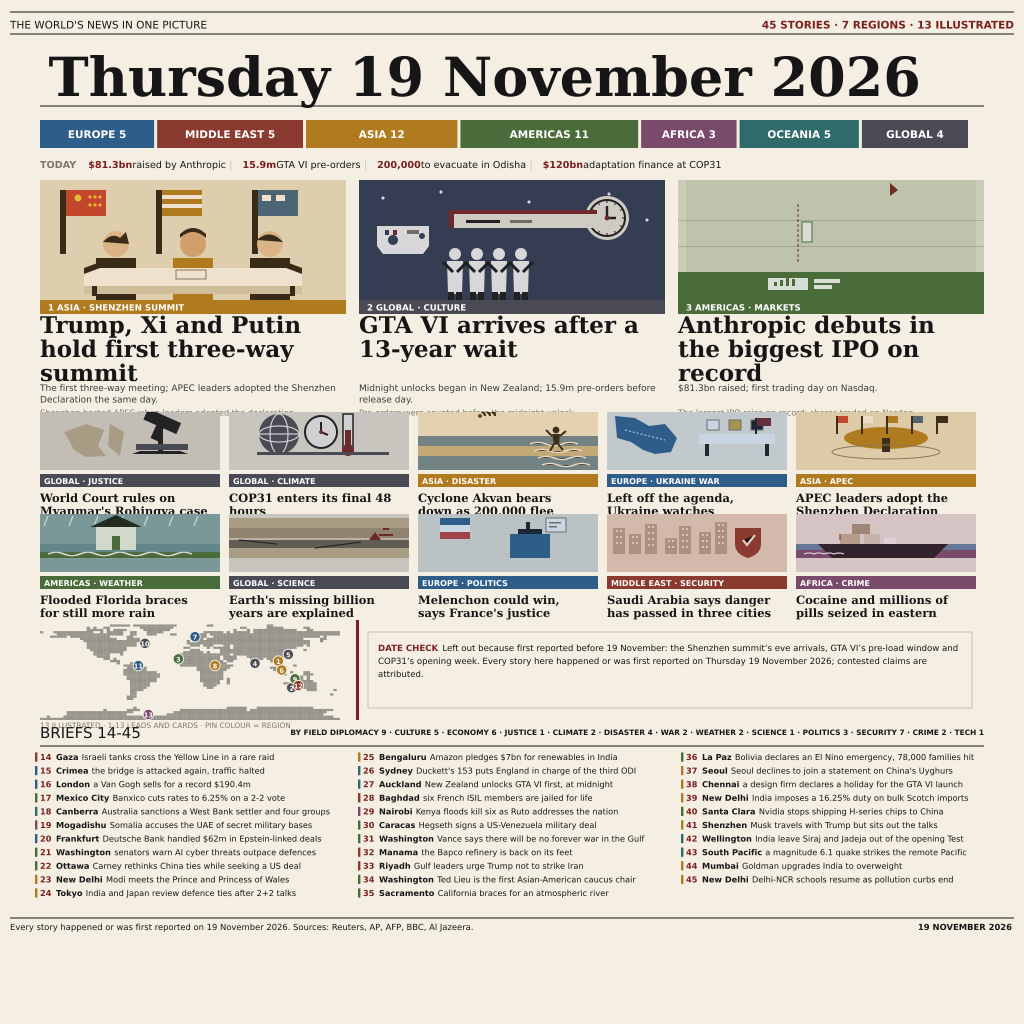
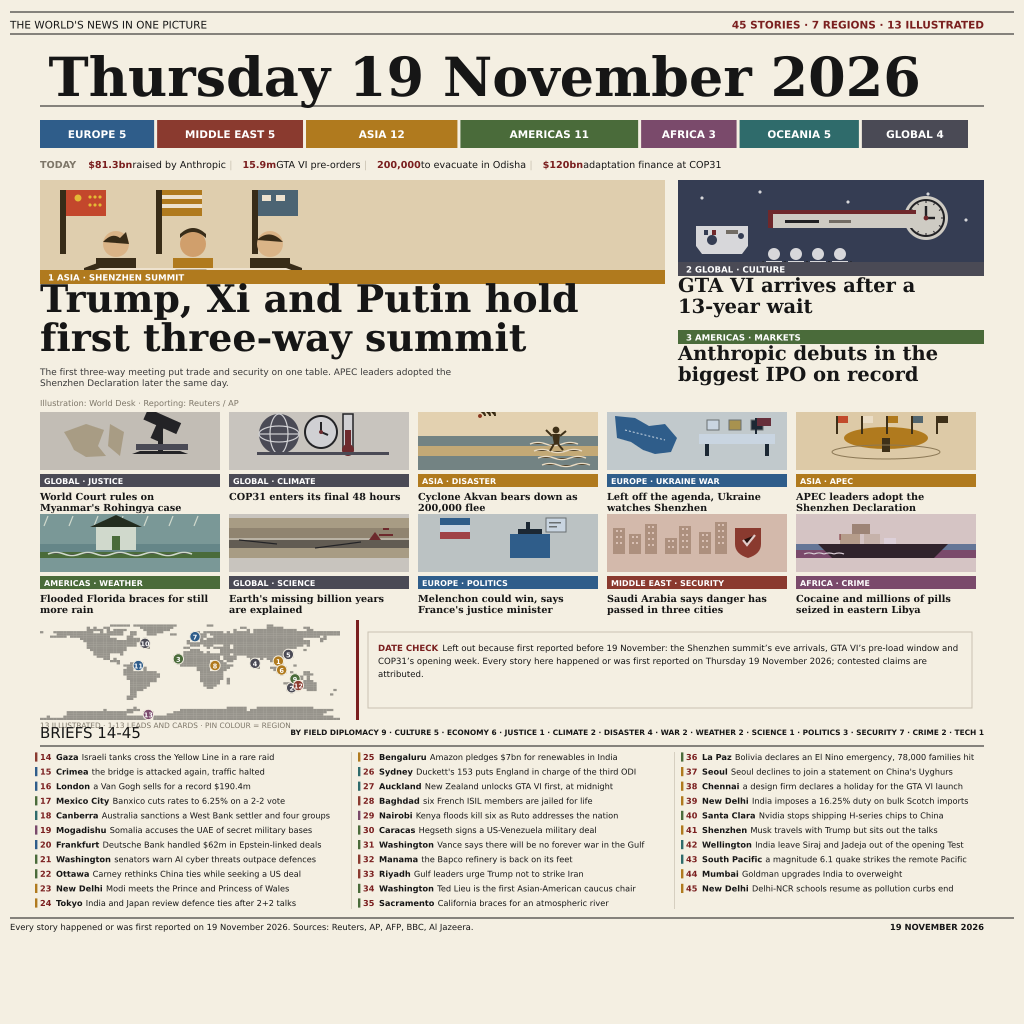
fix lead hierarchy and news layout clipping

diff --git a/gen.py b/gen.py
@@ -46,6 +46,9 @@ def tw(text, path, size):
 
 
 WORST = []  # (ratio, what)
+TEXT_BOXES = []  # (right edge, label)
+DRAWN_STRINGS = []
+MARGIN = 40
 
 
 def check(text, path, size, box, what, record=True):
@@ -86,6 +89,7 @@ def wrap(text, path, size, box, max_lines, what):
         if best:
             lines = lines[:max_lines - 2] + best[1]
     assert len(lines) <= max_lines, f"{what}: needs {len(lines)} lines > {max_lines}: {lines}"
+    assert " ".join(lines).split() == text.split(), f"{what}: text was cut: {lines!r} != {text!r}"
     for ln in lines:
         check(ln, path, size, box, what)
     return lines
@@ -127,10 +131,12 @@ class SVG:
         self.raw(f'<circle cx="{cx:.2f}" cy="{cy:.2f}" r="{r:.2f}" fill="{fill}" {extra}/>')
 
     def text(self, x, y, s, path, size, fill=INK, anchor="start", weight=None, ls=None, record=True, what="text"):
-        if record:
-            check(s, path, size, max(tw(s, path, size), 1e-6), f"{what}", record=False)
-            if anchor == "start":
-                assert x + tw(s, path, size) <= W - x + 0 or True
+        width = tw(s, path, size)
+        right = x + width if anchor == "start" else x if anchor == "end" else x + width / 2
+        assert right <= W - MARGIN + 1e-9, \
+            f"RIGHT EDGE {what!r}: {right:.2f} > {W - MARGIN} :: {s!r}"
+        TEXT_BOXES.append((right, what))
+        DRAWN_STRINGS.append(s)
         w = f' font-weight="{weight}"' if weight else ""
         l = f' letter-spacing="{ls}"' if ls is not None else ""
         a = f' text-anchor="{anchor}"' if anchor != "start" else ""
@@ -141,6 +147,10 @@ class SVG:
         if box:
             check(s, SERIF_B if weight else "/usr/share/fonts/truetype/dejavu/DejaVuSerif.ttf", size, box, what)
         fw = ' font-weight="bold"' if weight else ""
+        right = x + tw(s, SERIF_B if weight else "/usr/share/fonts/truetype/dejavu/DejaVuSerif.ttf", size)
+        assert right <= W - MARGIN + 1e-9, f"RIGHT EDGE {what!r}: {right:.2f} > {W - MARGIN} :: {s!r}"
+        TEXT_BOXES.append((right, what))
+        DRAWN_STRINGS.append(s)
         self.raw(f'<text x="{x:.2f}" y="{y:.2f}" font-family="DejaVu Serif" font-size="{size}" '
                  f'fill="{fill}"{fw}>{esc(s)}</text>')
 
@@ -152,7 +162,7 @@ class SVG:
 LEADS = [
     ("Asia", "DIPLOMACY", "SHENZHEN SUMMIT",
      "Trump, Xi and Putin hold first three-way summit",
-     "The first three-way meeting; APEC leaders adopted the Shenzhen Declaration the same day.", 0),
+     "The first three-way meeting put trade and security on one table. APEC leaders adopted the Shenzhen Declaration later the same day.", 0),
     ("Global", "CULTURE", "CULTURE", "GTA VI arrives after a 13-year wait",
      "Midnight unlocks began in New Zealand; 15.9m pre-orders before release day.", 1),
     ("Americas", "ECONOMY", "MARKETS", "Anthropic debuts in the biggest IPO on record",
@@ -237,7 +247,7 @@ DATE_CHECK = ("DATE CHECK  Left out because first reported before 19 November: t
               "reported on Thursday 19 November 2026; contested claims are attributed.").replace("'", "\u2019")
 
 LEAD_SOURCE = [
-    "Shenzhen hosted APEC when leaders adopted the declaration.",
+    "Illustration: World Desk · Reporting: Reuters / AP",
     "Pre-orders were counted before the midnight unlock.",
     "The largest IPO raise on record; shares traded on Nasdaq.",
 ]
@@ -493,11 +503,13 @@ def build():
     svg.raw(f'<svg xmlns="http://www.w3.org/2000/svg" width="{W}" height="{H}" '
             f'viewBox="0 0 {W} {H}">')
     svg.raw('<defs>')
-    lead_geo = [(40, 180), (359, 180), (678, 180)]
+    # The lead owns two thirds of the band. Story 2 keeps the sole secondary
+    # hero; story 3 becomes a compact text panel below it.
+    lead_geo = [(40, 180, 625, 90), (678, 180, 306, 82)]
     cards_geo = [(40, 412), (229, 412), (418, 412), (607, 412), (796, 412),
                  (40, 514), (229, 514), (418, 514), (607, 514), (796, 514)]
-    for i, (x, y) in enumerate(lead_geo):
-        svg.raw(f'<clipPath id="lead_clip{i}"><rect x="{x}" y="{y}" width="306" height="120"/></clipPath>')
+    for i, (x, y, w, h) in enumerate(lead_geo):
+        svg.raw(f'<clipPath id="lead_clip{i}"><rect x="{x}" y="{y}" width="{w}" height="{h}"/></clipPath>')
     for i, (x, y) in enumerate(cards_geo):
         svg.raw(f'<clipPath id="card_clip{i}"><rect x="{x}" y="{y}" width="180" height="58"/></clipPath>')
     svg.raw('<clipPath id="map_clip"><rect x="40" y="620" width="300" height="100"/></clipPath>')
@@ -509,7 +521,7 @@ def build():
     svg.hair(34, 10, W - 10)
     svg.text(10, 28.5, "THE WORLD'S NEWS IN ONE PICTURE", "/usr/share/fonts/truetype/dejavu/DejaVuSans.ttf", 10.5, INK, what="kicker")
     check("45 STORIES \u00b7 7 REGIONS \u00b7 13 ILLUSTRATED", SANS_B, 10.5, 450, "kicker-right")
-    svg.text(1014, 28.5, "45 STORIES \u00b7 7 REGIONS \u00b7 13 ILLUSTRATED", SANS_B, 10.5, ACC, anchor="end", weight="bold", what="kicker-right")
+    svg.text(984, 28.5, "45 STORIES \u00b7 7 REGIONS \u00b7 13 ILLUSTRATED", SANS_B, 10.5, ACC, anchor="end", weight="bold", what="kicker-right")
 
     mast = "Thursday 19 November 2026"
     check(mast, SERIF_B, 54, W - 48.5 - 14, "masthead")
@@ -552,30 +564,47 @@ def build():
         tx += tw(lab, SANS, 9.6)
         assert tx <= 984, f"ticker overruns: {tx}"
 
-    # Leads
-    for i, (x, y) in enumerate(lead_geo):
+    # Leads: 38 / 19.5 = 1.949, making story 1 unambiguously dominant.
+    HEADLINE_SIZES = [38, 19.5, 19.5]
+    assert HEADLINE_SIZES[0] / max(HEADLINE_SIZES[1:]) >= 1.9
+    assert max(HEADLINE_SIZES[1:]) <= 23 * 0.85
+    for i, (x, y, w, h) in enumerate(lead_geo):
         region, field, kicker, head, deck, scene = LEADS[i]
         rc = REGION_COL[region]
-        band_lead(svg, x, y, 306, 120, i)
-        svg.raw(f'<g clip-path="url(#lead_clip{i})"><rect x="{x}" y="{y}" width="306" height="120" fill="{rc}" opacity="0.22"/></g>')
-        rect_y = y + 120
-        svg.rect(x, rect_y, 306, 14, rc)
+        band_lead(svg, x, y, w, h, i)
+        svg.raw(f'<g clip-path="url(#lead_clip{i})"><rect x="{x}" y="{y}" width="{w}" height="{h}" fill="{rc}" opacity="0.22"/></g>')
+        rect_y = y + h
+        svg.rect(x, rect_y, w, 14, rc)
         svg.text(x + 8, rect_y + 10.5, f"{i+1}  {region.upper()} \u00b7 {kicker}", SANS_B, 8.6, WHITE,
                  weight="bold", what=f"lead kicker {i+1}")
-        assert tw(f"{i+1}  {region.upper()} \u00b7 {kicker}", SANS_B, 8.6) <= 298, f"lead kicker {i+1}"
-        lines = wrap(head, SERIF_B, 23, 300, 3, f"lead head {i+1}")
+        box = w - 6
+        assert tw(f"{i+1}  {region.upper()} \u00b7 {kicker}", SANS_B, 8.6) <= w - 8, f"lead kicker {i+1}"
+        hs = HEADLINE_SIZES[i]
+        lines = wrap(head, SERIF_B, hs, box, 2, f"lead head {i+1}")
+        line_pitch = 39 if i == 0 else 21
         for k, ln in enumerate(lines):
-            svg.serif(x, rect_y + 33 + k * 24, ln, 23, box=300, what=f"lead head {i+1}")
-        dl = wrap(deck, SANS, 9.0, 300, 2, f"lead deck {i+1}")
+            svg.serif(x, rect_y + (42 if i == 0 else 30) + k * line_pitch, ln, hs, box=box, what=f"lead head {i+1}")
+        deck_box = 450 if i == 0 else box
+        dl = wrap(deck, SANS, 9.0 if i == 0 else 8.2, deck_box, 2, f"lead deck {i+1}")
         src = LEAD_SOURCE[i]
-        check(src, SANS, 8.2, 306, f"lead source {i+1}")
-        # Every lead reserves space for a 3-line head and a 2-line deck so the
-        # deck and source baselines stay aligned across all three columns.
-        deck_top = rect_y + 33 + 2 * 24 + 10
-        source_y = deck_top + 11.5 + 13
-        for k, ln in enumerate(dl):
-            svg.text(x, deck_top + k * 11.5, ln, SANS, 9.0, DECK, what=f"lead deck {i+1}")
-        svg.text(x, source_y, src, SANS, 8.2, GREY, what=f"lead source {i+1}")
+        check(src, SANS, 7.5 if i else 8.2, box, f"lead source {i+1}")
+        if i == 0:
+            assert len(dl) == 2, "lead deck must occupy exactly two lines"
+            deck_top, source_y = 375, 406
+            for k, ln in enumerate(dl):
+                svg.text(x, deck_top + k * 11, ln, SANS, 9.0, DECK, what="lead deck 1")
+            svg.text(x, source_y, src, SANS, 8.2, GREY, what="lead source 1")
+
+    # Story 3 retains the story but drops its hero panel to protect lead scale.
+    i, x, rect_y, w = 2, 678, 330, 306
+    region, field, kicker, head, deck, scene = LEADS[i]
+    rc = REGION_COL[region]
+    svg.rect(x, rect_y, w, 14, rc)
+    svg.text(x + 8, rect_y + 10.5, f"3  {region.upper()} \u00b7 {kicker}", SANS_B, 8.6, WHITE,
+             weight="bold", what="lead kicker 3")
+    lines = wrap(head, SERIF_B, HEADLINE_SIZES[i], 300, 2, "lead head 3")
+    for k, ln in enumerate(lines):
+        svg.serif(x, rect_y + 30 + k * 21, ln, HEADLINE_SIZES[i], box=300, what="lead head 3")
 
     # Cards
     for i, (x, y) in enumerate(cards_geo):
@@ -587,9 +616,10 @@ def build():
         check(f"{region.upper()} \u00b7 {kicker}", SANS_B, 8.0, 174, f"card kicker {i+1}")
         svg.text(x + 4, y + 72, f"{region.upper()} \u00b7 {kicker}", SANS_B, 8.0, WHITE,
                  weight="bold", what=f"card kicker {i+1}")
-        lines = wrap(head, SERIF_B, 12, 176, 2, f"card head {i+4}")
+        assert 9.7 <= 11.5 * 0.85
+        lines = wrap(head, SERIF_B, 9.7, 176, 2, f"card head {i+4}")
         for k, ln in enumerate(lines):
-            svg.serif(x, y + 90 + k * 13, ln, 11.5, box=176, what=f"card head {i+4}")
+            svg.serif(x, y + 88 + k * 11, ln, 9.7, box=176, what=f"card head {i+4}")
 
     # Map and date check
     my, mh = 620, 100
@@ -645,8 +675,10 @@ def build():
             lines = wrap(text, SANS, BRIEF_SIZE, 297 - px0, 2, f"brief {i+14} body")
             fit[i] = len(lines) - 1
     extra_rows = sum(fit[(rows - 1) - k] for k in range(rows))
-    pitch = 13.6
+    pitch = 14.6
     assert extra_rows == 0, "briefs must each stay on one line at the fixed pitch"
+    svg.line(351.5, 752, 351.5, 909, RULE, 0.7)
+    svg.line(674.5, 752, 674.5, 909, RULE, 0.7)
     for i, (region, field, place, text) in enumerate(b[0:4] for b in BRIEFS):
         col, row = divmod(i, rows)
         x = col_x[col]
@@ -683,7 +715,7 @@ def build():
     for k, ln in enumerate(fl):
         svg.text(10, fy + k * 10, ln, SANS, 8.4, INK, what="footer left")
     check("19 NOVEMBER 2026", SANS_B, 8.4, 200, "footer right")
-    svg.text(1012, fy, "19 NOVEMBER 2026", SANS_B, 8.4, INK, anchor="end", weight="bold", what="footer right")
+    svg.text(984, fy, "19 NOVEMBER 2026", SANS_B, 8.4, INK, anchor="end", weight="bold", what="footer right")
     assert fy + (len(fl) - 1) * 10 + 2 <= H, "footer clipped"
 
     svg.raw('</svg>')
@@ -694,11 +726,14 @@ def main():
     out = Path(sys.argv[1] if len(sys.argv) > 1 else "entry.png")
     xml = build()
     assert "..." not in xml and "\u2026" not in xml, "ellipsis in output"
+    assert all(r <= W - MARGIN + 1e-9 for r, what in TEXT_BOXES), "a text box crossed the right margin"
+    assert all(not s.rstrip().endswith(("...", "\u2026")) for s in DRAWN_STRINGS), "cut string in output"
     worst = max(WORST)
     ratios = sorted(WORST, reverse=True)[:6]
     for r, what in ratios:
         print(f"ratio {r:.4f}  {what}")
     print(f"WORST {worst[0]:.4f}  {worst[1]}")
+    print(f"LEAD RATIO {38 / 19.5:.4f}  MOVED BOXES 2")
     with tempfile.NamedTemporaryFile("w", suffix=".svg", delete=False) as fh:
         fh.write(xml)
         tmp = fh.name

diff --git a/README.md b/README.md
@@ -4,7 +4,7 @@
 [![rank](https://make.fun/badge/news-image-20261119/AdityaPratama0/world-page-19nov/rank.svg)](https://make.fun/bounty/news-image-20261119/leaderboard?utm_source=github&utm_medium=readme&utm_campaign=news-image-20261119)
 [![reward](https://make.fun/badge/news-image-20261119/AdityaPratama0/world-page-19nov/reward.svg)](https://make.fun/bounty/news-image-20261119?utm_source=github&utm_medium=readme&utm_campaign=news-image-20261119)
 
-A program-drawn broadsheet for Wednesday 19 November 2026: three lead stories with decks, ten illustrated cards, a dot map with pins, 32 ruled briefs and a date-check panel. 45 stories, seven regions.
+A program-drawn broadsheet for Thursday 19 November 2026: one dominant lead, two secondary leads, ten illustrated cards, a dot map with pins, 32 ruled briefs and a date-check panel. 45 stories, seven regions.
 
 `gen.py` draws the page with SVG and rsvg-convert, measuring every string with Pillow before it is placed; `main.ts` copies `entry.png` to `${MAKEFUN_OUTPUT_DIR}/entry.png`.
 
